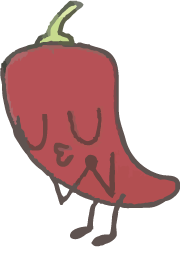
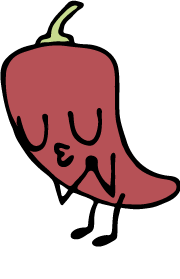
update graphics, added home link to nav

Changed region(s): [[0.0, 0.0, 1.0, 0.8889], [0.2778, 0.4875, 0.4167, 0.6022]]

diff --git a/about.html b/about.html
@@ -27,6 +27,7 @@
         	</div>
         	<div id="navbar" class="collapse navbar-collapse">
           		<ul class="nav navbar-nav">
+            		<li><a href="index.html">Home</a></li>
             		<li class="active"><a href="about.html">About</a></li>
             		<li><a href="upload.html">Upload</a></li>
             		<li><a href="sources.html">Sources</a></li>

diff --git a/sources.html b/sources.html
@@ -27,6 +27,7 @@
         	</div>
         	<div id="navbar" class="collapse navbar-collapse">
           		<ul class="nav navbar-nav">
+            		<li><a href="index.html">Home</a></li>
             		<li><a href="about.html">About</a></li>
             		<li><a href="upload.html">Upload</a></li>
             		<li class="active"><a href="sources.html">Sources</a></li>

diff --git a/upload.html b/upload.html
@@ -27,6 +27,7 @@
         	</div>
         	<div id="navbar" class="collapse navbar-collapse">
           		<ul class="nav navbar-nav">
+            		<li><a href="index.html">Home</a></li>
             		<li><a href="about.html">About</a></li>
             		<li class="active"><a href="upload.html">Upload</a></li>
             		<li><a href="sources.html">Sources</a></li>

diff --git a/index.html b/index.html
@@ -28,6 +28,7 @@
         	</div>
         	<div id="navbar" class="collapse navbar-collapse">
           		<ul class="nav navbar-nav">
+            		<li><a href="index.html">Home</a></li>
             		<li><a href="about.html">About</a></li>
             		<li><a href="upload.html">Upload</a></li>
             		<li><a href="sources.html">Sources</a></li>

diff --git a/more-burger.html b/more-burger.html
@@ -30,6 +30,7 @@
         	</div>
         	<div id="navbar" class="collapse navbar-collapse">
           		<ul class="nav navbar-nav">
+            		<li><a href="index.html">Home</a></li>
             		<li><a href="about.html">About</a></li>
             		<li><a href="upload.html">Upload</a></li>
             		<li><a href="sources.html">Sources</a></li>

diff --git a/more-candy.html b/more-candy.html
@@ -31,6 +31,7 @@
         	</div>
         	<div id="navbar" class="collapse navbar-collapse">
           		<ul class="nav navbar-nav">
+            		<li><a href="index.html">Home</a></li>
             		<li><a href="about.html">About</a></li>
             		<li><a href="upload.html">Upload</a></li>
             		<li><a href="sources.html">Sources</a></li>

diff --git a/more-cherry.html b/more-cherry.html
@@ -32,6 +32,7 @@
         	</div>
         	<div id="navbar" class="collapse navbar-collapse">
           		<ul class="nav navbar-nav">
+            		<li><a href="index.html">Home</a></li>
             		<li><a href="about.html">About</a></li>
             		<li><a href="upload.html">Upload</a></li>
             		<li><a href="sources.html">Sources</a></li>

diff --git a/more-coffee.html b/more-coffee.html
@@ -30,6 +30,7 @@
         	</div>
         	<div id="navbar" class="collapse navbar-collapse">
           		<ul class="nav navbar-nav">
+            		<li><a href="index.html">Home</a></li>
             		<li><a href="about.html">About</a></li>
             		<li><a href="upload.html">Upload</a></li>
             		<li><a href="sources.html">Sources</a></li>

diff --git a/more-donut.html b/more-donut.html
@@ -32,6 +32,7 @@
         	</div>
         	<div id="navbar" class="collapse navbar-collapse">
           		<ul class="nav navbar-nav">
+            		<li><a href="index.html">Home</a></li>
             		<li><a href="about.html">About</a></li>
             		<li><a href="upload.html">Upload</a></li>
             		<li><a href="sources.html">Sources</a></li>

diff --git a/more-onion.html b/more-onion.html
@@ -28,6 +28,7 @@
         	</div>
         	<div id="navbar" class="collapse navbar-collapse">
           		<ul class="nav navbar-nav">
+            		<li><a href="index.html">Home</a></li>
             		<li><a href="about.html">About</a></li>
             		<li><a href="upload.html">Upload</a></li>
             		<li><a href="sources.html">Sources</a></li>
